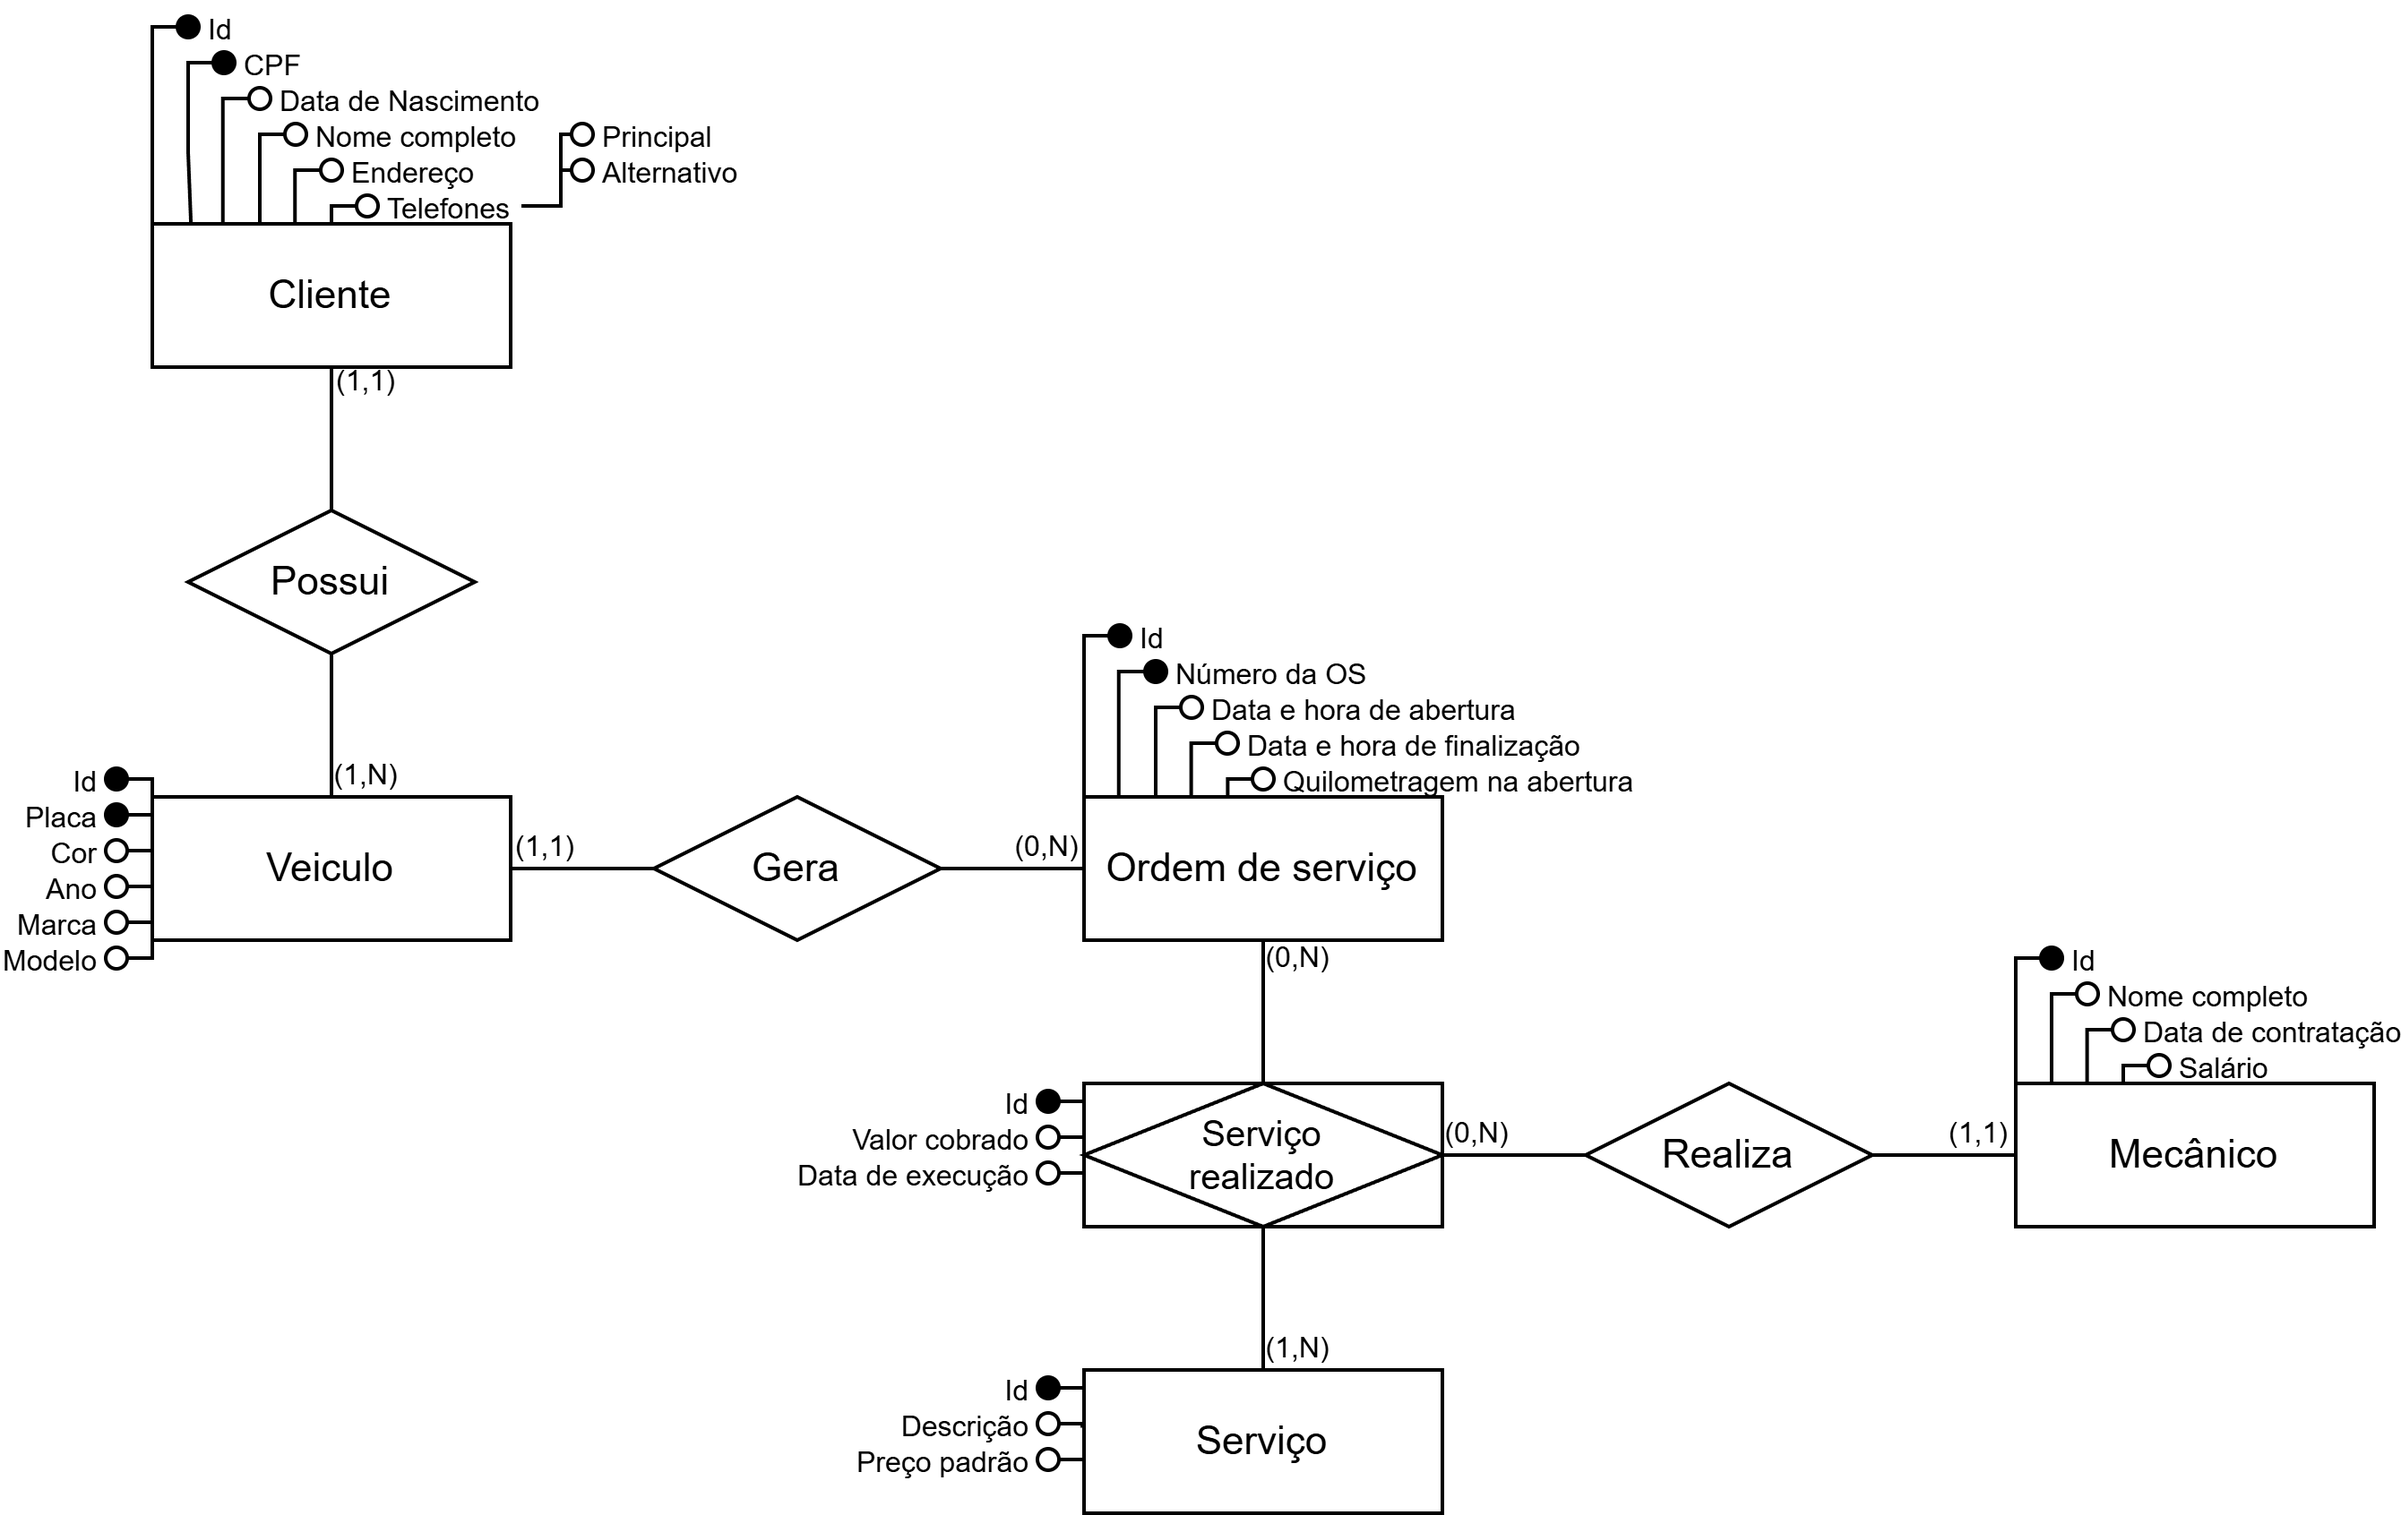
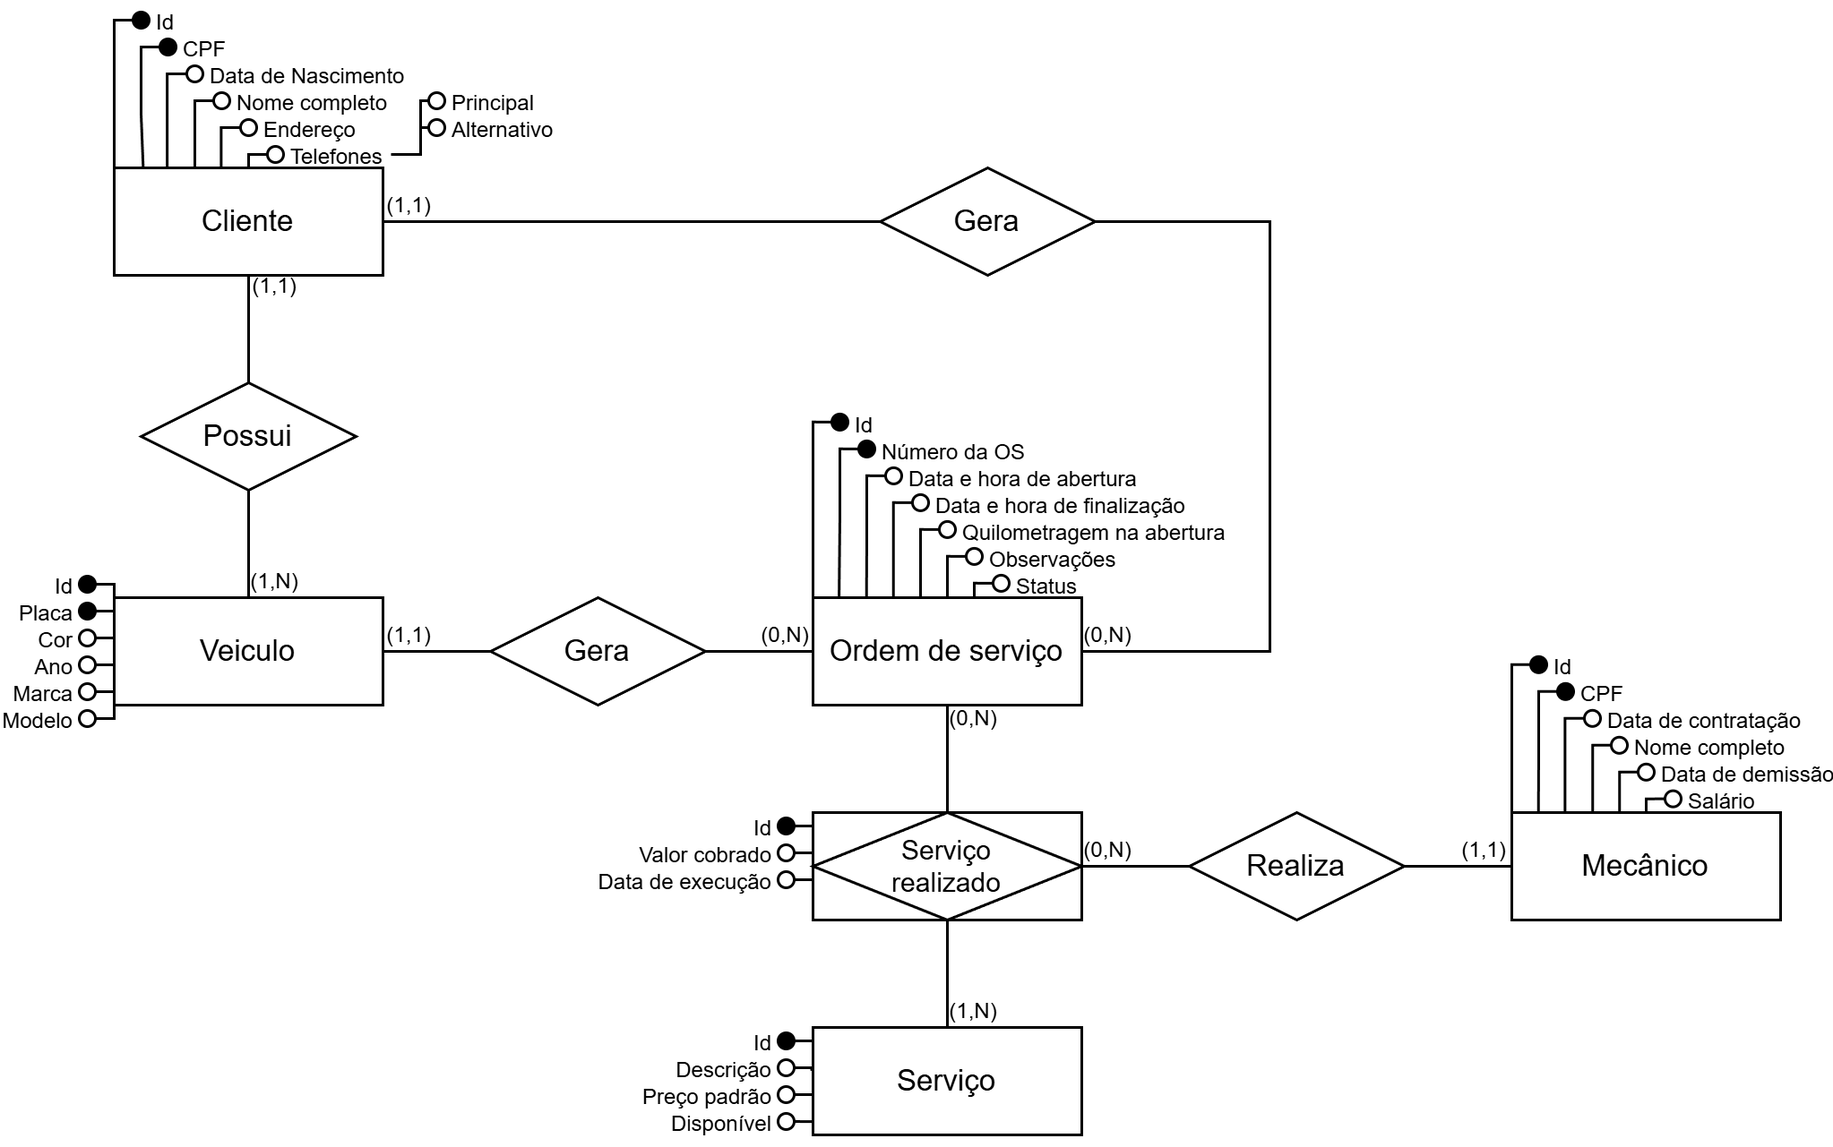
docs: atualiza README com instrucoes da CLI e diagramas, e melhora pyproject.toml

diff --git a/README.md b/README.md
@@ -1,25 +1,72 @@
-# Modelagem de Banco de Dados: Oficina Mecânica
+# Sistema de Gestão: Oficina Mecânica
 
-Projeto de banco de dados desenvolvido como requisito de avaliação para a disciplina de Banco de Dados do Centro Universitário Nobre (UNIFAN).
+Projeto de banco de dados e aplicação CLI desenvolvido como requisito de avaliação para a disciplina de Banco de Dados do Centro Universitário Nobre (UNIFAN).
 
 ## 🎯 Objetivo
-Resolver o problema de gerenciamento de ordens de serviço de uma oficina, garantindo a integridade dos dados e a rastreabilidade dos serviços prestados por cada mecânico.
+Resolver o problema de gerenciamento de ordens de serviço de uma oficina, garantindo a integridade dos dados, rastreabilidade dos serviços prestados por mecânicos e provendo uma interface amigável para o usuário final.
 
 ## 🛠 Tecnologias Utilizadas
-* **Banco de Dados:** PostgreSQL 18
+* **Linguagem:** Python 3.x
+* **Banco de Dados:** PostgreSQL
+* **Bibliotecas Principais:** 
+  * `psycopg`: Para conexão e transações com o banco.
+  * `questionary`: Para a interface interativa de linha de comando (CLI).
+  * `python-dotenv`: Para gerenciamento de credenciais (arquivo `.env`).
+* **Padrões de Projeto:** Arquitetura em camadas utilizando *Repository Pattern* e *Service Layer*.
 * **Modelagem:** dbdiagram.io e Draw.io
-* **Interface:** VS Code com SQLTools e pgAdmin 4
 
 ## 📌 Diferenciais do Projeto
-* **Tipagem Precisa:** Uso de `DECIMAL(10,2)` para valores monetários e `TIMESTAMP` para registros temporais precisos.
-* **Integridade Referencial:** Configuração rigorosa de Chaves Estrangeiras (FK) com `CASCADE` para facilitar a manutenção do ambiente de desenvolvimento.
-* **Consultas Complexas:** Inclusão de scripts com `INNER JOIN` para relatórios detalhados de produtividade.
+* **Interface CLI Interativa:** Menus navegáveis, validações em tempo real (ex: CPF e formato de data) e paginação de listas.
+* **Arquitetura Limpa:** Separação clara entre acesso a dados (`repositories`), regras de negócio (`services`) e interação com o usuário (`cli`).
+* **Gestão Completa de OS:** Fluxo completo desde a abertura, adição de serviços realizados por mecânicos específicos, até a finalização e cancelamento.
+* **Integridade de Dados:** Validações para impedir CPFs duplicados e tratamento seguro de transações SQL (commit/rollback).
+
+## 📂 Modelagem de Dados (Diagramas)
+Os modelos conceituais e lógicos do banco de dados podem ser visualizados abaixo:
+
+* [Modelo Conceitual](./diagramas/modelo_conceitual.png)
+* [Modelo Lógico](./diagramas/modelo_logico.png)
 
 ## 🚀 Como Executar
-1. Crie um banco de dados chamado `oficina_db`.
-2. Execute o arquivo `sql/schema.sql` para gerar as tabelas.
-3. Popule o banco com dados de teste usando `sql/seed.sql`.
-4. Utilize os exemplos em `sql/queries.sql` para testar a extração de dados.
+
+### Pré-requisitos
+* Python 3 instalado.
+* PostgreSQL rodando localmente ou em servidor.
+* Gerenciador de pacotes `uv` (recomendado) ou `pip`.
+
+### Passo a Passo
+
+1. **Clone o repositório:**
+   ```bash
+   git clone https://github.com/ol1rum/oficina-mecanica-db.git
+   cd oficina-mecanica-db
+   ```
+
+2. **Configure o Banco de Dados:**
+   * Crie um banco de dados no PostgreSQL (ex: `oficina_db`).
+   * Execute o script `sql/schema.sql` para criar as tabelas.
+   * (Opcional) Execute `sql/seed.sql` para popular com dados iniciais.
+
+3. **Configure as Variáveis de Ambiente:**
+   * Crie um arquivo `.env` na raiz do projeto com base no modelo abaixo:
+     ```env
+     DB_HOST=localhost
+     DB_NAME=oficina_db
+     DB_USER=seu_usuario
+     DB_PASSWORD=sua_senha
+     DB_PORT=5432
+     ```
+
+4. **Instale as dependências:**
+   ```bash
+   uv sync
+   # ou via pip: pip install -r requirements.txt (se aplicável)
+   ```
+
+5. **Inicie a Aplicação:**
+   ```bash
+   python main.py
+   ```
 
 ---
 **Desenvolvido por [Murilo](https://github.com/ol1rum)** *Estudante de Engenharia de Software – UNIFAN*
